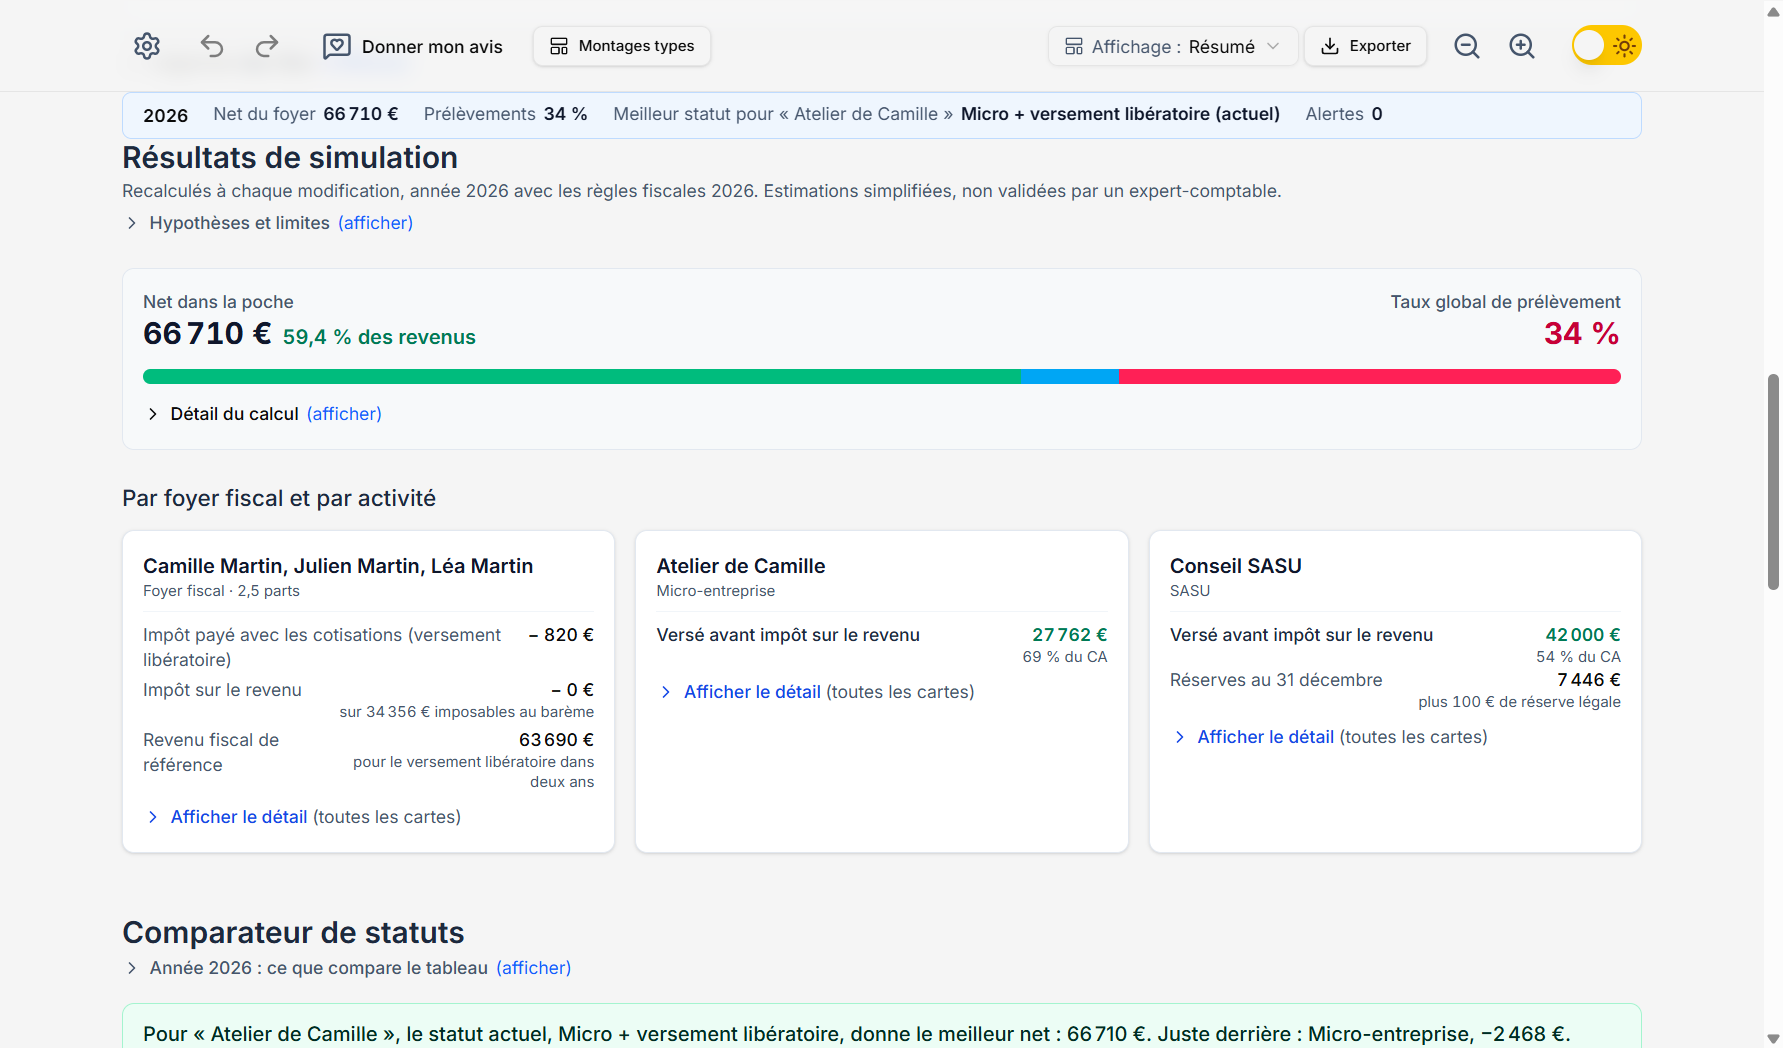
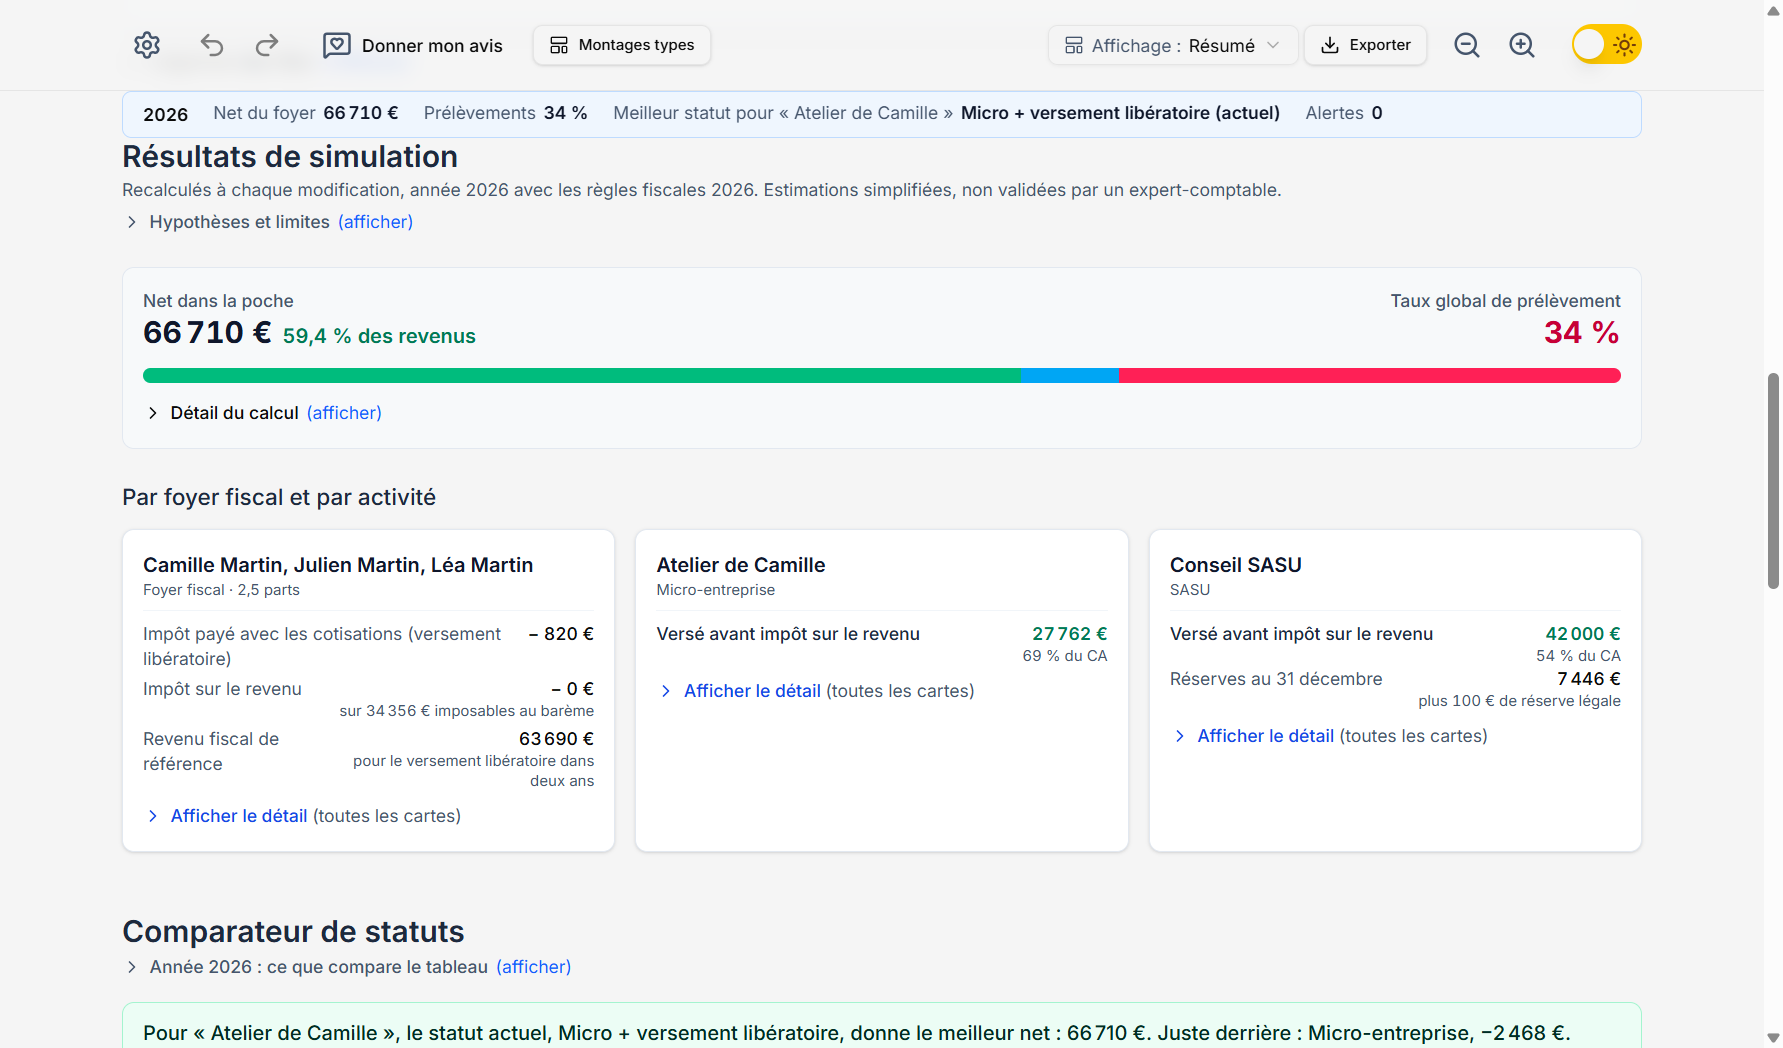
docs: Captures du README et du Store régénérées, la grille avec ses charges est visible (README et nouvelle capture 2 du Store)

diff --git a/captures/store.captures.ts b/captures/store.captures.ts
@@ -30,14 +30,17 @@ test("captures de la fiche du Microsoft Store", async ({ dossierDonnees, lancer 
   await expect(page.getByRole("heading", { level: 1 })).toHaveText("Famille Martin, simulation 2026")
   await capturer(page, "1-simulation.png")
 
+  await amenerSousLaBarre(page, "Grille de saisie annuelle")
+  await capturer(page, "2-grille.png")
+
   await amenerSousLaBarre(page, "Résultats de simulation")
-  await capturer(page, "2-resultats.png")
+  await capturer(page, "3-resultats.png")
 
   await expect(page.getByRole("region", { name: "Comparateur de statuts" }).getByRole("table", { name: "Comparaison des statuts" })).toBeVisible()
   await amenerSousLaBarre(page, "Comparateur de statuts")
-  await capturer(page, "3-comparateur.png")
+  await capturer(page, "4-comparateur.png")
 
   await expect(page.getByRole("region", { name: "Rémunération ou dividendes ?" }).getByRole("group", { name: /Net du foyer selon la rémunération/ })).toBeVisible()
   await amenerSousLaBarre(page, "Rémunération ou dividendes ?")
-  await capturer(page, "4-remuneration-ou-dividendes.png")
+  await capturer(page, "5-remuneration-ou-dividendes.png")
 })

diff --git a/captures/readme.captures.ts b/captures/readme.captures.ts
@@ -13,7 +13,12 @@ test("captures du README", async ({ dossierDonnees, lancer }) => {
   await electronApp.evaluate(({ BrowserWindow }) => BrowserWindow.getAllWindows()[0]?.setSize(1440, 900))
 
   await expect(page.getByRole("heading", { level: 1 })).toHaveText("Famille Martin, simulation 2026")
+  // Fenêtre plus haute pour cette capture : les personnes et activités, puis plusieurs lignes de la grille de saisie.
+  await electronApp.evaluate(({ BrowserWindow }) => BrowserWindow.getAllWindows()[0]?.setSize(1440, 1500))
+  await expect.poll(() => page.evaluate(() => window.innerHeight)).toBeGreaterThan(1300)
   await page.screenshot({ path: path.join(DOSSIER, "acteurs-et-grille.png") })
+  await electronApp.evaluate(({ BrowserWindow }) => BrowserWindow.getAllWindows()[0]?.setSize(1440, 900))
+  await expect.poll(() => page.evaluate(() => window.innerHeight)).toBeLessThan(1000)
 
   // La barre du haut est fixe : on fait défiler pour que la section commence juste en dessous.
   await page.getByRole("heading", { name: "Résultats de simulation" }).evaluate(titre => window.scrollTo(0, titre.getBoundingClientRect().top + window.scrollY - 110))

diff --git a/documentation/microsoft-store/fiche-du-store.md b/documentation/microsoft-store/fiche-du-store.md
@@ -91,10 +91,11 @@ Dans [captures/](./captures/) : 1366 × 768 pixels (la taille minimale demandée
 
 | Fichier | Écran | Légende proposée |
 |---|---|---|
-| `1-simulation.png` | Acteurs du foyer et début de la grille annuelle | Décrivez votre foyer et vos activités, et leurs liens |
-| `2-resultats.png` | Résultats de simulation | Le net dans la poche et le taux global de prélèvement, par foyer et par activité |
-| `3-comparateur.png` | Comparateur de statuts | Comparez SASU, EURL, EI et micro-entreprise sur votre situation |
-| `4-remuneration-ou-dividendes.png` | Rémunération ou dividendes | Trouvez la rémunération qui donne le meilleur net |
+| `1-simulation.png` | Personnes et activités du foyer, avec le résumé du net (66 710 €) | Décrivez votre foyer et vos activités, et leurs liens |
+| `2-grille.png` | Grille de saisie annuelle, avec revenus et charges mois par mois | Saisissez vos revenus et charges mois par mois |
+| `3-resultats.png` | Résultats de simulation | Le net dans la poche et le taux global de prélèvement, par foyer et par activité |
+| `4-comparateur.png` | Comparateur de statuts | Comparez SASU, EURL, EI et micro-entreprise sur votre situation |
+| `5-remuneration-ou-dividendes.png` | Rémunération ou dividendes | Trouvez la rémunération qui donne le meilleur net |
 
 Pistes pour compléter (jusqu'à dix captures) : la grille annuelle avec la fenêtre d'un flux ouverte, les montages types, le mode sombre, l'export PDF. Éviter la fenêtre « Utiliser avec une IA » : elle affiche les chemins réels du poste, donc le nom de l'utilisateur.
 
